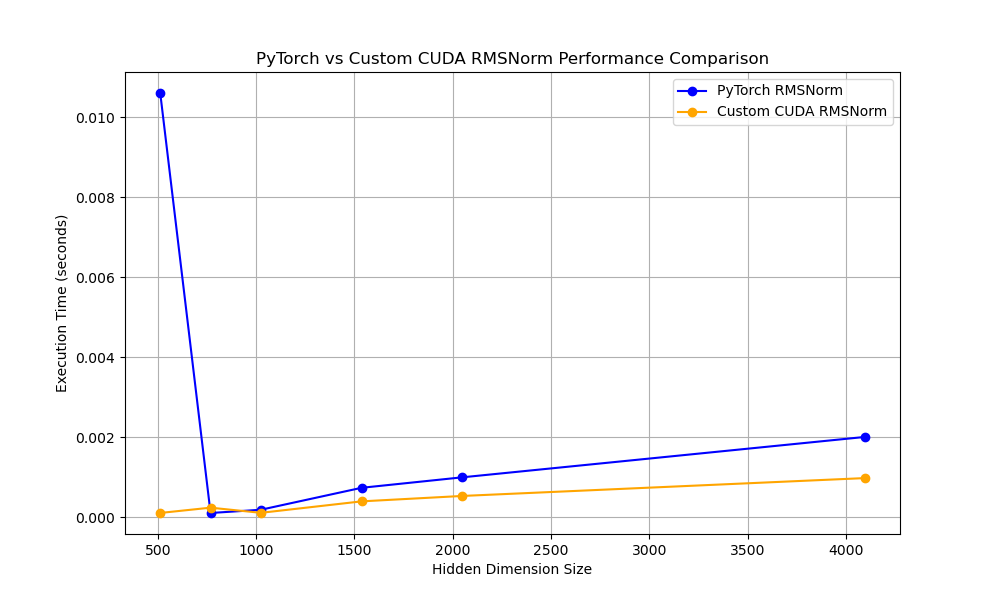
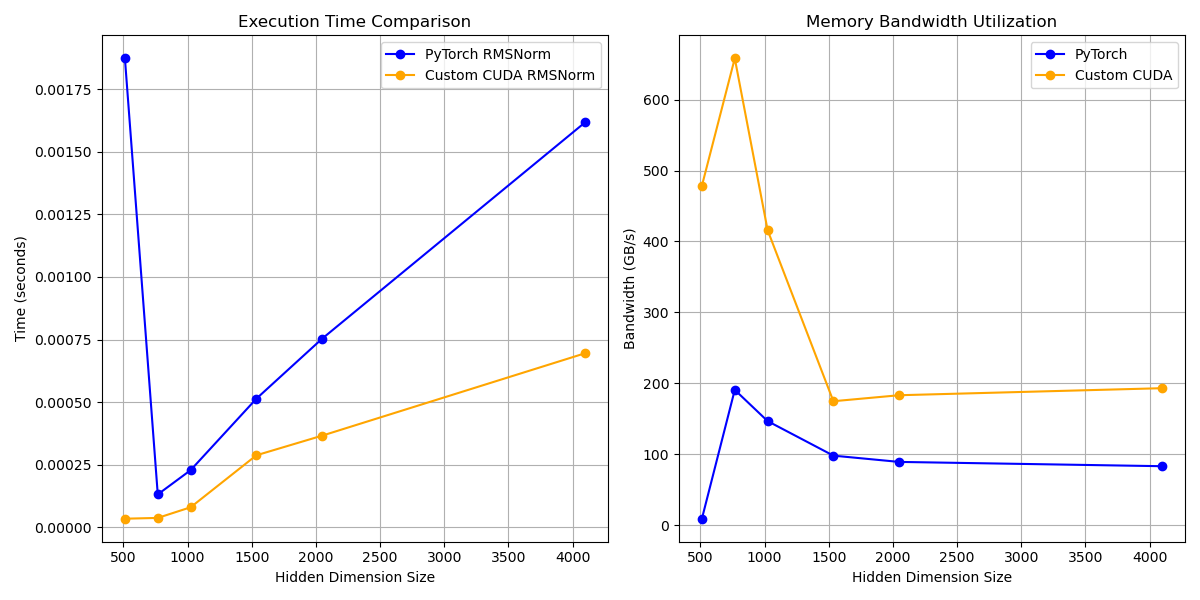
Added bandwidth benchmark test

diff --git a/day02/test.py b/day02/test.py
@@ -61,6 +61,10 @@ pytorch_times = []
 custom_times = []
 sizes = []
 
+# 在初始化列表后添加带宽存储列表
+pytorch_bandwidth = []
+custom_bandwidth = []
+
 for size in tensor_sizes:
     print("=" * 50)
     print(f"Testing size: {size}")
@@ -122,27 +126,49 @@ for size in tensor_sizes:
     custom_times.append(custom_time)
     sizes.append(size[0] * size[1])  # 存储元素总数
 
+    # 新增带宽计算部分
+    # 计算数据量（单位：GB）
+    # 输入数据量 + 输出数据量（假设都是float16）
+    data_size_gb = (input_tensor.numel() * 2 * 2) / 1e9  # 2 bytes per float16, 2表示输入+输出
+    
+    # 计算带宽（GB/s）
+    pytorch_bw = data_size_gb / pytorch_time
+    custom_bw = data_size_gb / custom_time
+    
+    # 存储带宽数据
+    pytorch_bandwidth.append(pytorch_bw)
+    custom_bandwidth.append(custom_bw)
+    
+    # 在输出中添加带宽信息
+    print(f"PyTorch bandwidth: {pytorch_bw:.2f} GB/s")
+    print(f"Custom CUDA bandwidth: {custom_bw:.2f} GB/s")
+
 if __name__ == "__main__":
-    # 在代码末尾添加以下绘图代码
-    plt.figure(figsize=(10, 6))
+    # 修改后的绘图代码
+    plt.figure(figsize=(12, 6))
 
-    # 绘制 PyTorch 实现的时间曲线
+    # 时间对比子图
+    plt.subplot(1, 2, 1)
     plt.plot([size[1] for size in tensor_sizes], pytorch_times, 'o-', label='PyTorch GELU', color='blue')
-
-    # 绘制自定义 CUDA 实现的时间曲线
     plt.plot([size[1] for size in tensor_sizes], custom_times, 'o-', label='Custom CUDA GELU', color='orange')
-
-    # 添加图表元素
-    plt.title('PyTorch vs Custom CUDA GELU Performance Comparison')
+    plt.title('Execution Time Comparison')
     plt.xlabel('Hidden Dimension Size')
-    plt.ylabel('Execution Time (seconds)')
-    plt.grid(True, which="both", ls="-")
+    plt.ylabel('Time (seconds)')
+    plt.grid(True)
     plt.legend()
 
-    # 保存图表
-    plt.savefig('./rmsnorm_performance_comparison.png')
+    # 带宽对比子图
+    plt.subplot(1, 2, 2)
+    plt.plot([size[1] for size in tensor_sizes], pytorch_bandwidth, 'o-', label='PyTorch', color='blue')
+    plt.plot([size[1] for size in tensor_sizes], custom_bandwidth, 'o-', label='Custom CUDA', color='orange')
+    plt.title('Memory Bandwidth Utilization')
+    plt.xlabel('Hidden Dimension Size')
+    plt.ylabel('Bandwidth (GB/s)')
+    plt.grid(True)
+    plt.legend()
 
-    # 显示图表
+    plt.tight_layout()
+    plt.savefig('./gelu_performance_comparison.png')
     plt.show()
 
 

diff --git a/day01/vec_RMSnorm/test.py b/day01/vec_RMSnorm/test.py
@@ -66,6 +66,9 @@ pytorch_times = []
 custom_times = []
 sizes = []
 
+# 在初始化列表后添加带宽存储列表
+pytorch_bandwidth = []
+custom_bandwidth = []
 
 for size in tensor_sizes:
     print("=" * 50)
@@ -133,6 +136,21 @@ for size in tensor_sizes:
     custom_times.append(custom_time)
     sizes.append(size[0] * size[1])  # 存储元素总数
 
+    # 计算数据量（单位：GB）
+    # 输入数据量 + 输出数据量（假设都是float32）
+    data_size_gb = (input_tensor.numel() * 4 * 2) / 1e9  # 4 bytes per float32, 2表示输入+输出
+    
+    # 计算带宽（GB/s）
+    pytorch_bw = data_size_gb / pytorch_time
+    custom_bw = data_size_gb / custom_time
+    
+    # 存储带宽数据
+    pytorch_bandwidth.append(pytorch_bw)
+    custom_bandwidth.append(custom_bw)
+    
+    # 在输出中添加带宽信息
+    print(f"PyTorch bandwidth: {pytorch_bw:.2f} GB/s")
+    print(f"Custom CUDA bandwidth: {custom_bw:.2f} GB/s")
 
 # 测试代码
 def test_rms_norm():
@@ -145,23 +163,28 @@ if __name__ == "__main__":
     test_rms_norm()
 
 # 在代码末尾添加以下绘图代码
-plt.figure(figsize=(10, 6))
+plt.figure(figsize=(12, 6))
 
-# 绘制 PyTorch 实现的时间曲线
+# 时间对比子图
+plt.subplot(1, 2, 1)
 plt.plot([size[1] for size in tensor_sizes], pytorch_times, 'o-', label='PyTorch RMSNorm', color='blue')
-
-# 绘制自定义 CUDA 实现的时间曲线
 plt.plot([size[1] for size in tensor_sizes], custom_times, 'o-', label='Custom CUDA RMSNorm', color='orange')
-
-# 添加图表元素
-plt.title('PyTorch vs Custom CUDA RMSNorm Performance Comparison')
+plt.title('Execution Time Comparison')
 plt.xlabel('Hidden Dimension Size')
-plt.ylabel('Execution Time (seconds)')
-plt.grid(True, which="both", ls="-")
+plt.ylabel('Time (seconds)')
+plt.grid(True)
 plt.legend()
 
-# 保存图表
-plt.savefig('./rmsnorm_performance_comparison.png')
+# 带宽对比子图
+plt.subplot(1, 2, 2)
+plt.plot([size[1] for size in tensor_sizes], pytorch_bandwidth, 'o-', label='PyTorch', color='blue')
+plt.plot([size[1] for size in tensor_sizes], custom_bandwidth, 'o-', label='Custom CUDA', color='orange')
+plt.title('Memory Bandwidth Utilization')
+plt.xlabel('Hidden Dimension Size')
+plt.ylabel('Bandwidth (GB/s)')
+plt.grid(True)
+plt.legend()
 
-# 显示图表
+plt.tight_layout()
+plt.savefig('./rmsnorm_performance_comparison.png')
 plt.show()
